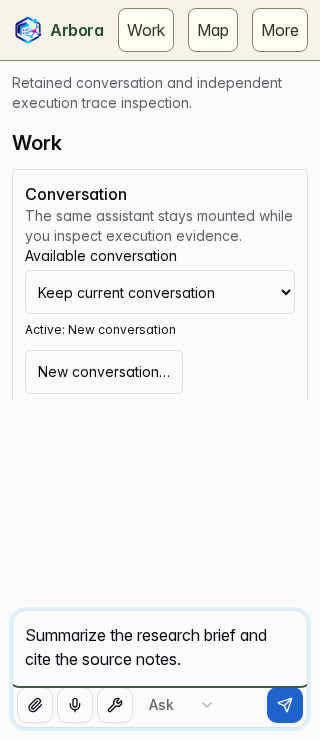
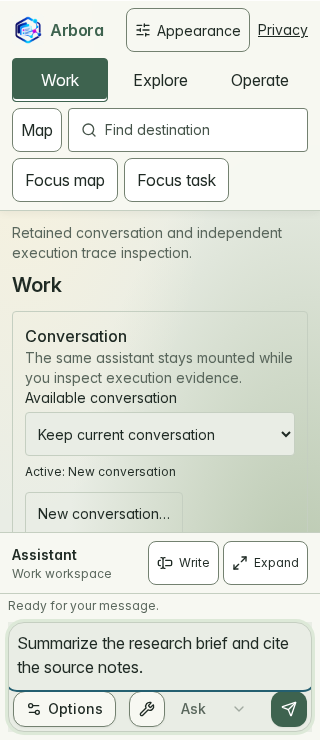
docs: refresh Canopy workspace screenshots
Import the six reviewed documentation captures from successful hosted run
40144867369. Retain the original clean rendered source and PNG digests;
frontend and capture inputs match the current main baseline.

Describe the native assistant layout and Appearance controls in the README,
Pages landing page and gallery. Preserve synthetic-data and scope limits.

Spec: none (reviewed R011 documentation assets; no runtime or acceptance-state change)

diff --git a/docs/screenshots.md b/docs/screenshots.md
@@ -6,30 +6,52 @@ illustrate the interface, not live service availability or complete feature acce
 
 ## Workspace gallery
 
-These are real browser captures with synthetic demo data, not live accounts.
+These are real browser captures of Canopy light and the persistent assistant,
+with synthetic demo data, not live accounts.
 Each pair shows the initial viewport at 1440 × 900 and 320 × 740 pixels.
-Scrollable panels continue below the visible area. The readiness and completion
-labels describe the fixture, not a live deployment.
+On wide screens, the assistant sits beside the task; on narrow screens, it docks
+below the task. Scrollable task panels continue below the visible area. The
+readiness and completion labels describe the fixture, not a live deployment.
+
+Open **Appearance** in the workspace header to choose **Canopy light** or
+**Canopy dark** under **Theme**, or follow the system preference. **Surfaces**
+selects **Glass framing** or **Opaque framing** independently of the palette.
+Reading surfaces remain solid. See the [design system](design-system.md) for
+the source tokens and accessibility limits.
 
 ### Work
 
 An empty conversation contains an unsent draft, not a completed live chat.
 
-![Wide Work workspace with an empty conversation, synthetic tasks and an unsent draft.](assets/screenshots/work-wide.png)
+![Canopy light Work workspace with synthetic tasks and an unsent draft in the side-by-side assistant.](assets/screenshots/work-wide.png)
 
-![Narrow Work workspace with empty-conversation controls and an unsent draft.](assets/screenshots/work-narrow.png)
+![Narrow Canopy light Work workspace with conversation controls above the docked assistant and unsent draft.](assets/screenshots/work-narrow.png)
 
 ### Explore
 
-![Wide Explore workspace with a synthetic evidence collection and research brief.](assets/screenshots/explore-wide.png)
+![Canopy light Explore workspace with a synthetic evidence collection, research brief and side-by-side assistant.](assets/screenshots/explore-wide.png)
 
-![Narrow Explore workspace with the same synthetic evidence collection.](assets/screenshots/explore-narrow.png)
+![Narrow Canopy light Explore workspace with evidence navigation above the docked assistant.](assets/screenshots/explore-narrow.png)
 
 ### Operate
 
-![Wide Operate workspace with synthetic readiness and catalog data.](assets/screenshots/operate-wide.png)
+![Canopy light Operate workspace with synthetic readiness and catalog data beside the persistent assistant.](assets/screenshots/operate-wide.png)
 
-![Narrow Operate workspace with the same synthetic readiness snapshot.](assets/screenshots/operate-narrow.png)
+![Narrow Canopy light Operate workspace with the readiness panel above the docked assistant.](assets/screenshots/operate-narrow.png)
+
+### Capture provenance
+
+This gallery uses the complete `documentation-screenshots` artifact.
+
+- Source run: [CI 40144867369](https://github.com/Knuckles-Team/agent-webui/actions/runs/40144867369).
+- Rendered source: `d615e1c629fc8bb1fad05cbfd5246b38f984ff42` (clean tree).
+- Browser: Chromium 156.0.8078.4 on Linux.
+
+This source includes Canopy and the native assistant.
+Its frontend, public assets and capture inputs match main revision
+`546a4bc04f58bebcbcf91281ac8a570666c315bb` used for this refresh.
+The [manifest](assets/screenshots/manifest.json) preserves each original source revision and image digest.
+The importer copies the original PNGs without repainting or substituting scenes.
 
 ## Refresh locally
 

diff --git a/README.md b/README.md
@@ -41,9 +41,11 @@
   <a href="https://knuckles-team.github.io/agent-webui/status/">Status</a>
 </p>
 
-![The Explore workspace shows a synthetic evidence collection and selected research brief.](docs/assets/screenshots/explore-wide.png)
+![Canopy light Explore workspace with a synthetic research brief and the persistent assistant.](docs/assets/screenshots/explore-wide.png)
 
-Synthetic demo data. See the [workspace gallery and screenshot refresh guide](docs/screenshots.md).
+Canopy light with synthetic demo data and the persistent assistant. Open
+**Appearance** to choose Canopy light or dark and Glass or Opaque framing.
+See the [workspace gallery and screenshot refresh guide](docs/screenshots.md).
 
 ## Overview
 

diff --git a/docs/index.md b/docs/index.md
@@ -12,9 +12,11 @@
   </div>
 </section>
 
-![The Explore workspace shows a synthetic evidence collection and selected research brief.](assets/screenshots/explore-wide.png)
+![Canopy light Explore workspace with a synthetic research brief and the persistent assistant.](assets/screenshots/explore-wide.png)
 
-Synthetic demo data. See the [workspace gallery and screenshot refresh guide](screenshots.md).
+Canopy light with synthetic demo data and the persistent assistant. Open
+**Appearance** to choose Canopy light or dark and Glass or Opaque framing.
+See the [workspace gallery and screenshot refresh guide](screenshots.md).
 
 ## One interface, explicit authority
 
